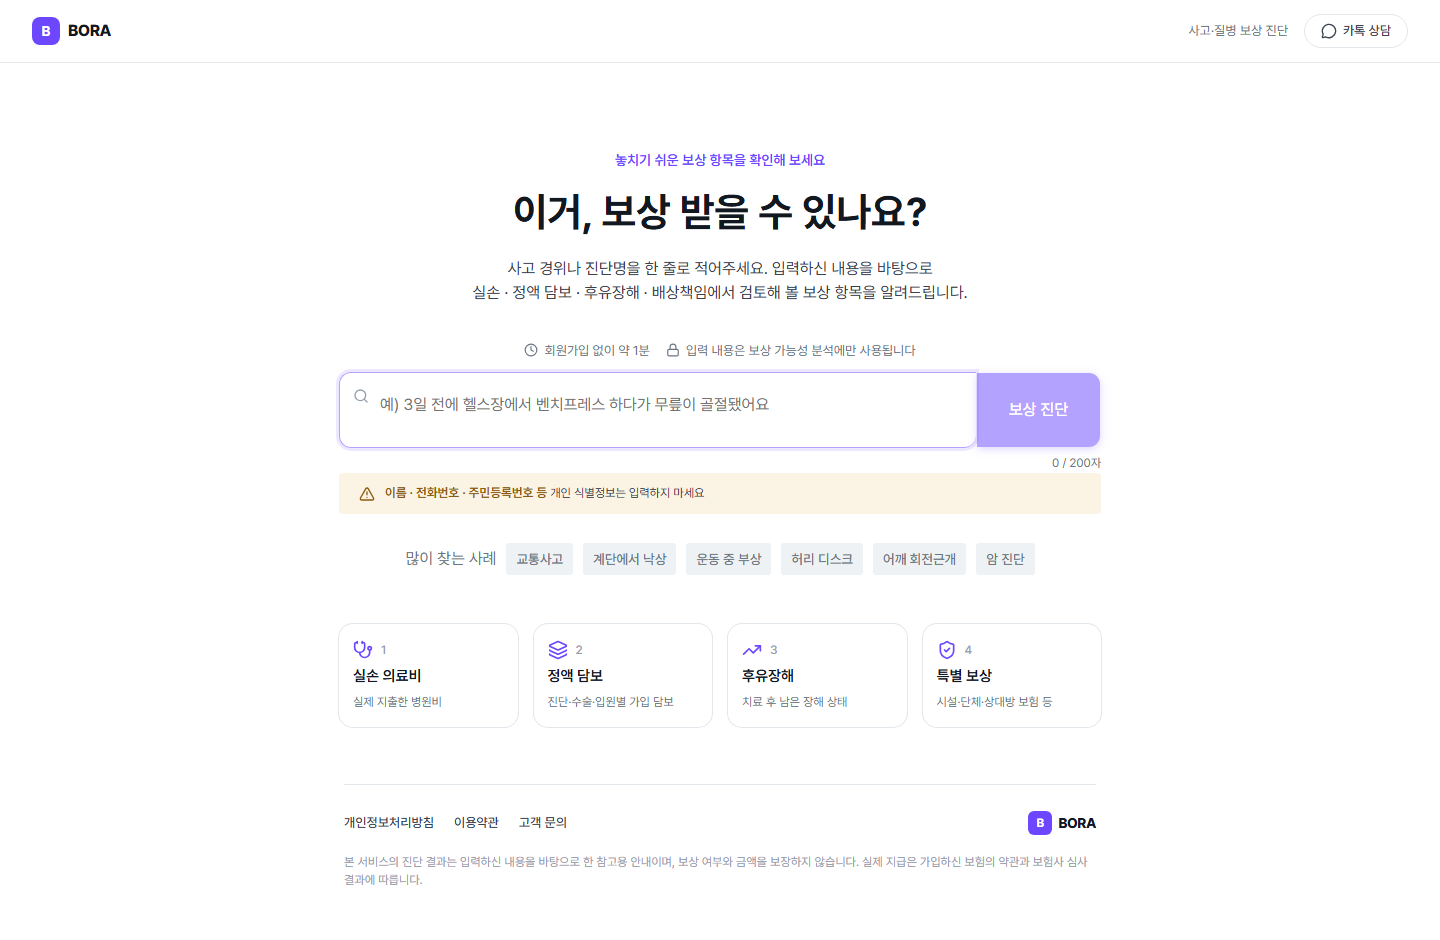
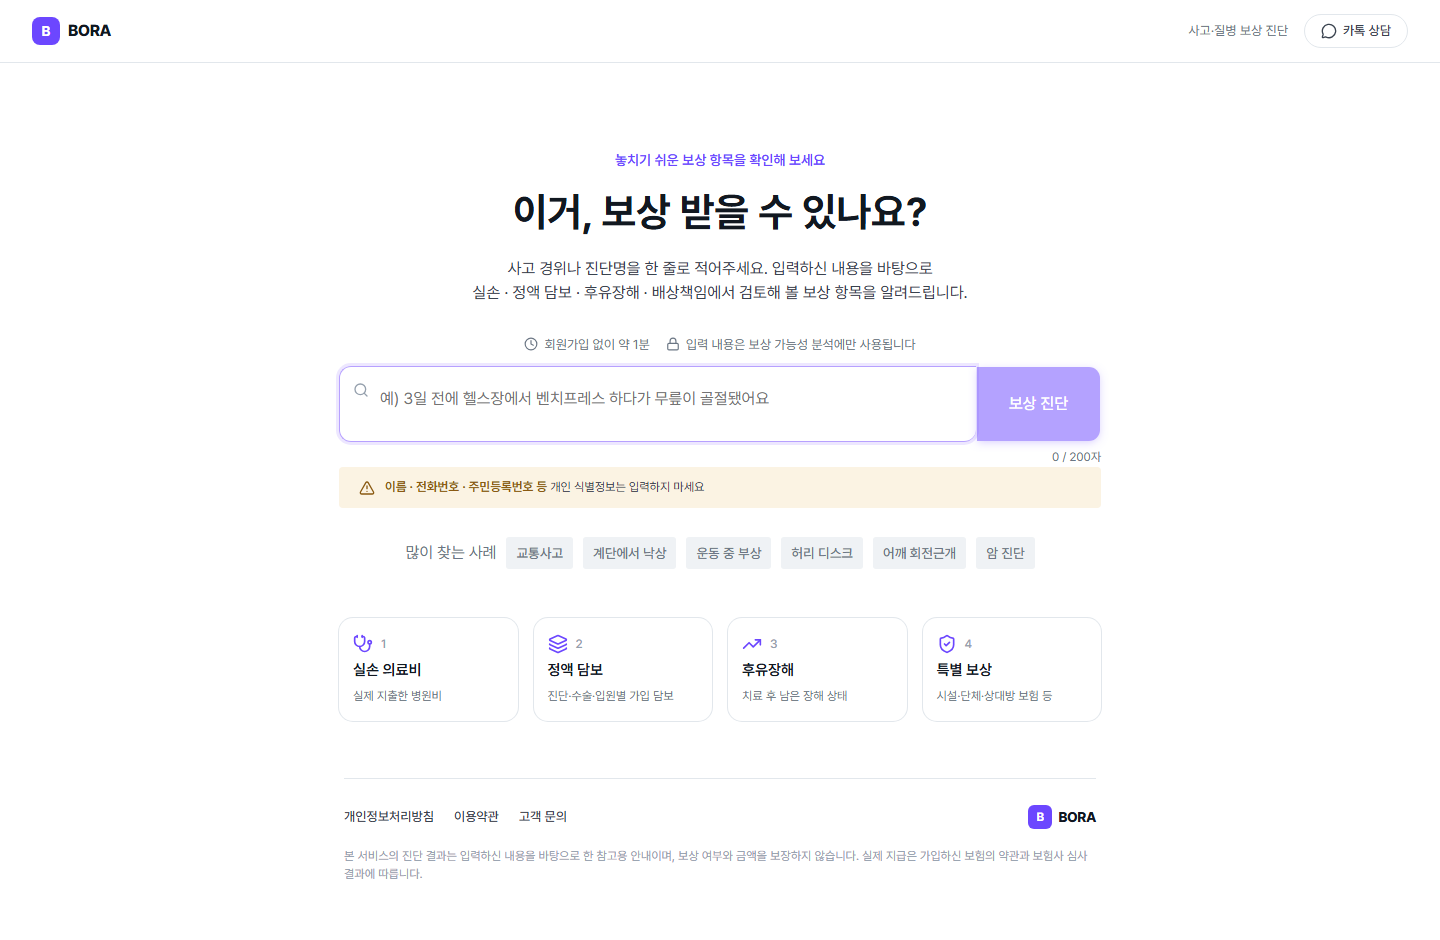
fix(SPEC-B2C-DIAGNOSIS-001): D2 8차 글자 크기 보정의 파급 정리
앞선 커밋에서 바로잡은 글자 크기가 주변 좌표를 밀어낸 부분을 정리한다.

- 01 설명 글자 크기를 14→16.07px로 올리자 문단의 line-box가 커져 그 아래
  요소(시계·자물쇠 행부터 푸터 면책 문구까지) 전부가 정확히 6px씩 내려갔다
  (전부 Δ6, 허용 8px 안이지만 보정 전에는 Δ0이던 행들이다). 시계·자물쇠
  행의 md:mt를 36→30px로 줄여 한 번에 되돌린다 — 화면 maxΔ 6→5px.
- M01-B 답변 안내를 13.1px로 잡으니 첫 줄이 컨테이너 폭(350)을 정확히
  채워 디자인(346)과 Δ4, 즉 허용치 경계에 걸렸다. 13px로 내리면 줄바꿈
  지점은 그대로이면서 Δ1이 된다 — 화면 maxΔ 4→3px.

검증: pnpm visual:verify 전체 10화면 PASS + exit 0(canonical),
Vitest 387/387, Playwright 16/16, ESLint·tsc 무출력, 빌드 2종 exit 0
(경고는 기존 instrumentation.ts Edge Runtime 1건뿐).

🗿 MoAI

diff --git a/components/diagnosis/step-input.tsx b/components/diagnosis/step-input.tsx
@@ -189,7 +189,7 @@ export function StepInput({ value, onChange, onValidSubmit, autoFocus }: StepInp
       {/* Desktop — Clock/Lock 2개 항목이 검색창 위에 별도로 표시된다. */}
       <div
         data-testid="diagnosis-trust-row"
-        className="hidden items-center gap-4 text-body-s text-bora-ink-3 md:mt-[36px] md:flex"
+        className="hidden items-center gap-4 text-body-s text-bora-ink-3 md:mt-[30px] md:flex"
       >
         <span className="flex items-center gap-1.5">
           <Clock className="size-3.5 shrink-0" aria-hidden="true" />

diff --git a/components/diagnosis/step-questions.tsx b/components/diagnosis/step-questions.tsx
@@ -235,7 +235,7 @@ export function StepQuestions({
           지점과 폭이 함께 수렴한다. */}
       <p
         data-testid="diagnosis-answer-guide"
-        className="mt-[22px] text-left text-[13.1px] text-bora-ink-4 md:hidden"
+        className="mt-[22px] text-left text-[13px] text-bora-ink-4 md:hidden"
       >
         이 답변은 수술비 · 후유장해 담보 검토에 사용되며, 결과 화면의 「추가 질문 답변」에
         그대로 표시됩니다.
